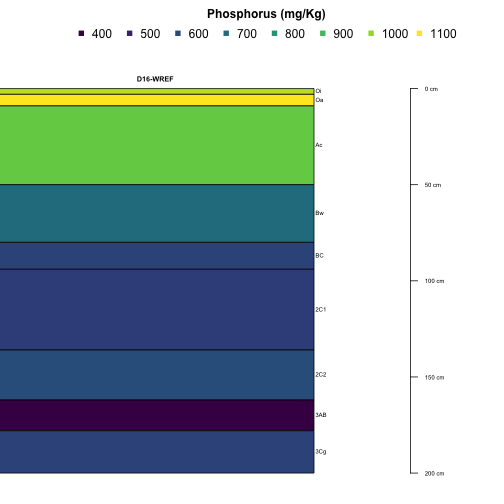
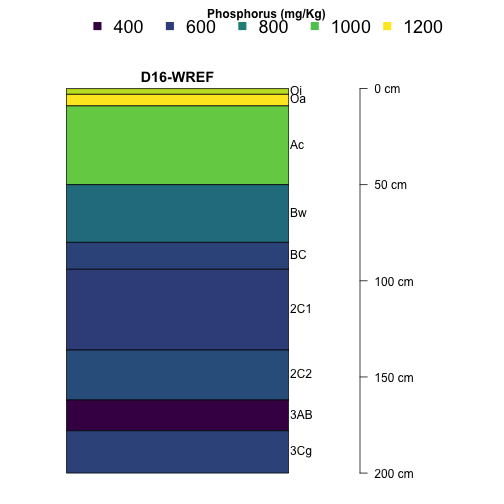
Minor plotting change to MEgapit Profiles tutorial

diff --git a/tutorials/R/UF-2020/megapit-profiles.md b/tutorials/R/UF-2020/megapit-profiles.md
@@ -195,7 +195,10 @@ Experimental Forest (WREF).
             name='horizonName', label='siteLabel', 
             color='pMjelm', 
             col.label='Phosphorus (mg/Kg)',
-            col.palette=viridis::viridis(10))
+            col.palette=viridis::viridis(10), cex.names=1, 
+            width = .1, axis.line.offset = -6, 
+            col.legend.cex = 1.5, n.legend=4, 
+            x.idx.offset = 0, n=.88)
 
 ![ ]({{ site.baseurl }}/images/rfigs/R/UF-2020/megapit-profiles/plot-WREF-1.png)
 
